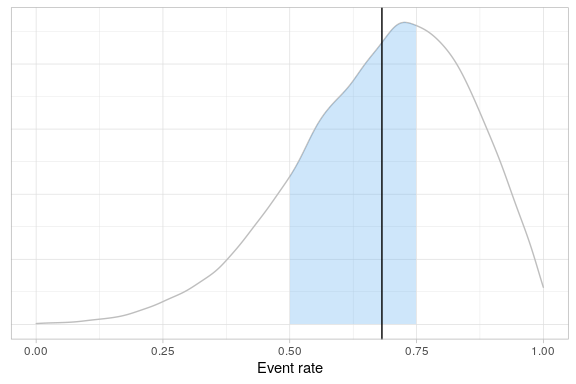
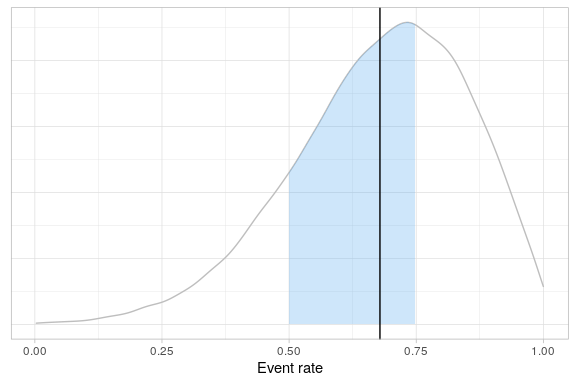
Fixing problems flagged by merge checks

diff --git a/README.md b/README.md
@@ -213,21 +213,22 @@ We fit the Bayesian Hierarchical Model described by Berry et al …
 fitted <- berrySummary %>%
   fitBayesBinomialModel(n = Subjects, r = Events)
 #> Loading required namespace: rjags
+#> INFO [2023-01-24 14:10:52] Status of model fitting: OK
 fitted
 #> $tab
 #> # A tibble: 20,000 × 4
 #>        p     a     b     q
 #>    <dbl> <dbl> <dbl> <int>
-#>  1 0.273 3.27  1.26      2
-#>  2 0.322 3.02  1.68      4
-#>  3 0.923 4.58  1.67     95
-#>  4 0.803 2.56  1.46     74
-#>  5 0.480 2.91  1.14     13
-#>  6 0.876 3.06  0.486    88
-#>  7 0.929 1.67  0.748    95
-#>  8 0.987 0.944 0.857   100
-#>  9 0.623 2.52  1.53     35
-#> 10 0.724 3.06  1.75     56
+#>  1 0.675  7.23  4.27    46
+#>  2 0.664  8.94  4.28    44
+#>  3 0.657  8.47  4.00    42
+#>  4 0.812  7.57  3.97    76
+#>  5 0.440  8.13  4.23    10
+#>  6 0.794  9.00  2.29    72
+#>  7 0.569  4.49  1.99    25
+#>  8 0.674  3.14  2.02    46
+#>  9 0.699  4.84  2.20    51
+#> 10 0.753  5.45  2.75    64
 #> # … with 19,990 more rows
 #> 
 #> $results
@@ -235,16 +236,16 @@ fitted
 #> JAGS model summary statistics from 20000 samples (chains = 2; adapt+burnin = 5000):
 #>                                                                           
 #>       Lower95  Median Upper95    Mean      SD Mode     MCerr MC%ofSD SSeff
-#> p[10] 0.37204 0.70069 0.99945 0.68175 0.17116   -- 0.0013148     0.8 16947
-#> a      2.1901  5.9252  9.9896  5.9117  2.2816   --  0.056463     2.5  1633
-#> b     0.61747  2.6179  5.1603  2.7773  1.2636   --  0.032209     2.5  1539
+#> p[10] 0.36053 0.69662 0.99416 0.67867 0.17235   -- 0.0013997     0.8 15162
+#> a       2.159  5.8656  9.9949  5.8588  2.2934   --  0.058108     2.5  1558
+#> b     0.65933  2.6085  5.2344  2.7541  1.2614   --  0.032876     2.6  1472
 #>                        
-#>            AC.10   psrf
-#> p[10] -0.0093212 1.0002
-#> a        0.22285 1.0017
-#> b         0.2191 1.0035
+#>           AC.10    psrf
+#> p[10] 0.0069035 0.99996
+#> a       0.21262  1.0001
+#> b       0.21729  1.0001
 #> 
-#> Total time taken: 3.4 seconds
+#> Total time taken: 3.3 seconds
 #> 
 #> 
 #> $status
@@ -290,7 +291,7 @@ berrySummary %>%
 #> [1] "OK"
 #> 
 #> $qtl
-#> [1] 0.6817485
+#> [1] 0.6786695
 #> 
 #> $data
 #> # A tibble: 9 × 5
@@ -347,10 +348,10 @@ berrySummary %>%
     upper = c("warn" = 0.7, "action" = 0.9)
   )
 #> $status
-#> [1] "warn"
+#> [1] "OK"
 #> 
 #> $qtl
-#> [1] 0.7006912
+#> [1] 0.6966203
 #> 
 #> $data
 #> # A tibble: 9 × 5
@@ -384,7 +385,7 @@ berrySummary %>%
 #> 
 #> $qtl
 #>       10% 
-#> 0.4481621 
+#> 0.4436683 
 #> 
 #> $data
 #> # A tibble: 9 × 5
@@ -426,7 +427,7 @@ qtlProbInRange
 #> [1] "action"
 #> 
 #> $qtl
-#> [1] 0.46405
+#> [1] 0.4675
 #> 
 #> $data
 #> # A tibble: 9 × 5
@@ -444,7 +445,7 @@ qtlProbInRange
 ```
 
 Again, the QTL is breached, since the probability that the study-level
-event rate is in the range \[0.5, 0.75\] is only 0.46.
+event rate is in the range \[0.5, 0.75\] is only 0.47.
 
 #### Using an arbitrary criterion
 
@@ -484,7 +485,7 @@ berrySummary %>%
     }
   )
 #> $qtl
-#> [1] 0.6817485
+#> [1] 0.6786695
 #> 
 #> $status
 #> [1] "Breach"
@@ -535,17 +536,17 @@ The `quantiles` element of the return value contains the mappings from
 quantile of the posterior to observed values of the metric. For example,
 the first row of `rvSiteMetrics$quantiles` shows that the lower action
 limit is the 5th centile of the posterior, which corresponds to an event
-probability of 0.373.
+probability of 0.366.
 
 ``` r
 rvSiteMetrics$quantiles
 #> # A tibble: 4 × 4
 #>   Threshold Status Quantile     p
 #>   <chr>     <chr>     <dbl> <dbl>
-#> 1 Lower     action     0.05 0.373
-#> 2 Lower     warn       0.2  0.540
-#> 3 Upper     warn       0.8  0.835
-#> 4 Upper     action     0.95 0.931
+#> 1 Lower     action     0.05 0.366
+#> 2 Lower     warn       0.2  0.535
+#> 3 Upper     warn       0.8  0.833
+#> 4 Upper     action     0.95 0.930
 ```
 
 As before, the `data` element of the list contains a copy of the site
@@ -675,9 +676,9 @@ grouped in an arbitrary fashion, or not at all. Optionally, reference
 lines that correspond to QTL thresholds may be added.
 
 ``` r
-berrySummary %>% 
-  add_column(Snapshot = "End of study") %>% 
-  add_column(Location = c(rep("EU", 4), rep("US", 5))) %>% 
+berrySummary %>%
+  add_column(Snapshot = "End of study") %>%
+  add_column(Location = c(rep("EU", 4), rep("US", 5))) %>%
   createQtlBubblePlot(
     x = Snapshot,
     y = ObservedResponse,
@@ -685,23 +686,23 @@ berrySummary %>%
     group = Location,
     boxWidth = 0.1,
     limits = list(
-               list(
-                 label = "QTL (85%)", 
-                 colour = "red", 
-                 type = "dashed", 
-                 y = 0.85, 
-                 x = 1.25, 
-                 vjust = -1
-               ),
-               list(
-                 label = "Sec Lim (75%)", 
-                 colour = "goldenrod", 
-                 type = "dotted", 
-                 y = 0.75, 
-                 x = 1.25, 
-                 vjust = 1.25
-               )
-             )
+      list(
+        label = "QTL (85%)",
+        colour = "red",
+        type = "dashed",
+        y = 0.85,
+        x = 1.25,
+        vjust = -1
+      ),
+      list(
+        label = "Sec Lim (75%)",
+        colour = "goldenrod",
+        type = "dotted",
+        y = 0.75,
+        x = 1.25,
+        vjust = 1.25
+      )
+    )
   )
 ```
 
@@ -970,6 +971,7 @@ straightforward.
 ``` r
 poissonFit <- cavalrySummary %>%
   fitBayesPoissonModel(Deaths, TotalTime)
+#> INFO [2023-01-24 14:11:01] Status of model fitting: OK
 poissonFit$tab %>%
   createQtlPlot(
     metric = lambda,
@@ -982,7 +984,7 @@ poissonFit$tab %>%
 
 <img src="man/figures/README-unnamed-chunk-24-1.png" width="80%" />
 
-# Envrionment
+# Environment
 
 ``` r
 sessionInfo()
@@ -1012,26 +1014,34 @@ sessionInfo()
 #> [13] magrittr_2.0.3  
 #> 
 #> loaded via a namespace (and not attached):
-#>  [1] fs_1.5.2          usethis_2.1.5     lubridate_1.8.0   devtools_2.4.3   
-#>  [5] webshot_0.5.3     httr_1.4.2        rprojroot_2.0.3   tools_4.1.3      
-#>  [9] backports_1.4.1   utf8_1.2.2        R6_2.5.1          DBI_1.1.2        
-#> [13] colorspace_2.0-3  withr_2.5.0       tidyselect_1.1.2  prettyunits_1.1.1
-#> [17] processx_3.5.3    compiler_4.1.3    cli_3.3.0         rvest_1.0.2      
-#> [21] xml2_1.3.3        desc_1.4.1        labeling_0.4.2    scales_1.2.0     
-#> [25] callr_3.7.0       systemfonts_1.0.4 digest_0.6.29     rmarkdown_2.14   
-#> [29] svglite_2.1.0     pkgconfig_2.0.3   htmltools_0.5.2   sessioninfo_1.2.2
-#> [33] dbplyr_2.1.1      fastmap_1.1.0     highr_0.9         rlang_1.0.6      
-#> [37] readxl_1.4.0      rstudioapi_0.13   farver_2.1.0      generics_0.1.2   
-#> [41] jsonlite_1.8.0    munsell_0.5.0     fansi_1.0.3       logger_0.2.2     
-#> [45] lifecycle_1.0.1   stringi_1.7.6     yaml_2.3.5        brio_1.1.3       
-#> [49] pkgbuild_1.3.1    grid_4.1.3        parallel_4.1.3    crayon_1.5.1     
-#> [53] lattice_0.20-45   haven_2.5.0       hms_1.1.1         knitr_1.39       
-#> [57] ps_1.7.0          pillar_1.7.0      pkgload_1.2.4     reprex_2.0.1     
-#> [61] glue_1.6.2        evaluate_0.15     remotes_2.4.2     modelr_0.1.8     
-#> [65] runjags_2.2.1-7   vctrs_0.4.1       tzdb_0.3.0        cellranger_1.1.0 
-#> [69] gtable_0.3.0      assertthat_0.2.1  cachem_1.0.6      xfun_0.30        
-#> [73] broom_0.8.0       coda_0.19-4       rjags_4-13        viridisLite_0.4.0
-#> [77] memoise_2.0.1     toOrdinal_1.3-0.0 ellipsis_0.3.2
+#>  [1] fs_1.5.2             usethis_2.1.5        lubridate_1.8.0     
+#>  [4] devtools_2.4.3       webshot_0.5.3        httr_1.4.2          
+#>  [7] rprojroot_2.0.3      tools_4.1.3          backports_1.4.1     
+#> [10] utf8_1.2.2           R6_2.5.1             DBI_1.1.2           
+#> [13] colorspace_2.0-3     withr_2.5.0          tidyselect_1.1.2    
+#> [16] prettyunits_1.1.1    processx_3.5.3       compiler_4.1.3      
+#> [19] cli_3.3.0            rvest_1.0.2          formatR_1.12        
+#> [22] xml2_1.3.3           desc_1.4.1           labeling_0.4.2      
+#> [25] scales_1.2.0         callr_3.7.0          systemfonts_1.0.4   
+#> [28] digest_0.6.29        rmarkdown_2.14       svglite_2.1.0       
+#> [31] pkgconfig_2.0.3      htmltools_0.5.2      sessioninfo_1.2.2   
+#> [34] highr_0.9            dbplyr_2.1.1         fastmap_1.1.0       
+#> [37] rlang_1.0.6          readxl_1.4.0         rstudioapi_0.13     
+#> [40] farver_2.1.0         generics_0.1.2       jsonlite_1.8.0      
+#> [43] futile.logger_1.4.3  munsell_0.5.0        fansi_1.0.3         
+#> [46] lifecycle_1.0.1      stringi_1.7.6        yaml_2.3.5          
+#> [49] brio_1.1.3           pkgbuild_1.3.1       grid_4.1.3          
+#> [52] parallel_4.1.3       crayon_1.5.1         lattice_0.20-45     
+#> [55] haven_2.5.0          hms_1.1.1            knitr_1.39          
+#> [58] ps_1.7.0             pillar_1.7.0         pkgload_1.2.4       
+#> [61] futile.options_1.0.1 reprex_2.0.1         glue_1.6.2          
+#> [64] evaluate_0.15        lambda.r_1.2.4       remotes_2.4.2       
+#> [67] modelr_0.1.8         runjags_2.2.1-7      vctrs_0.4.1         
+#> [70] tzdb_0.3.0           cellranger_1.1.0     gtable_0.3.0        
+#> [73] assertthat_0.2.1     cachem_1.0.6         xfun_0.30           
+#> [76] broom_0.8.0          coda_0.19-4          rjags_4-13          
+#> [79] viridisLite_0.4.0    memoise_2.0.1        toOrdinal_1.3-0.0   
+#> [82] ellipsis_0.3.2
 ```
 
 # References
